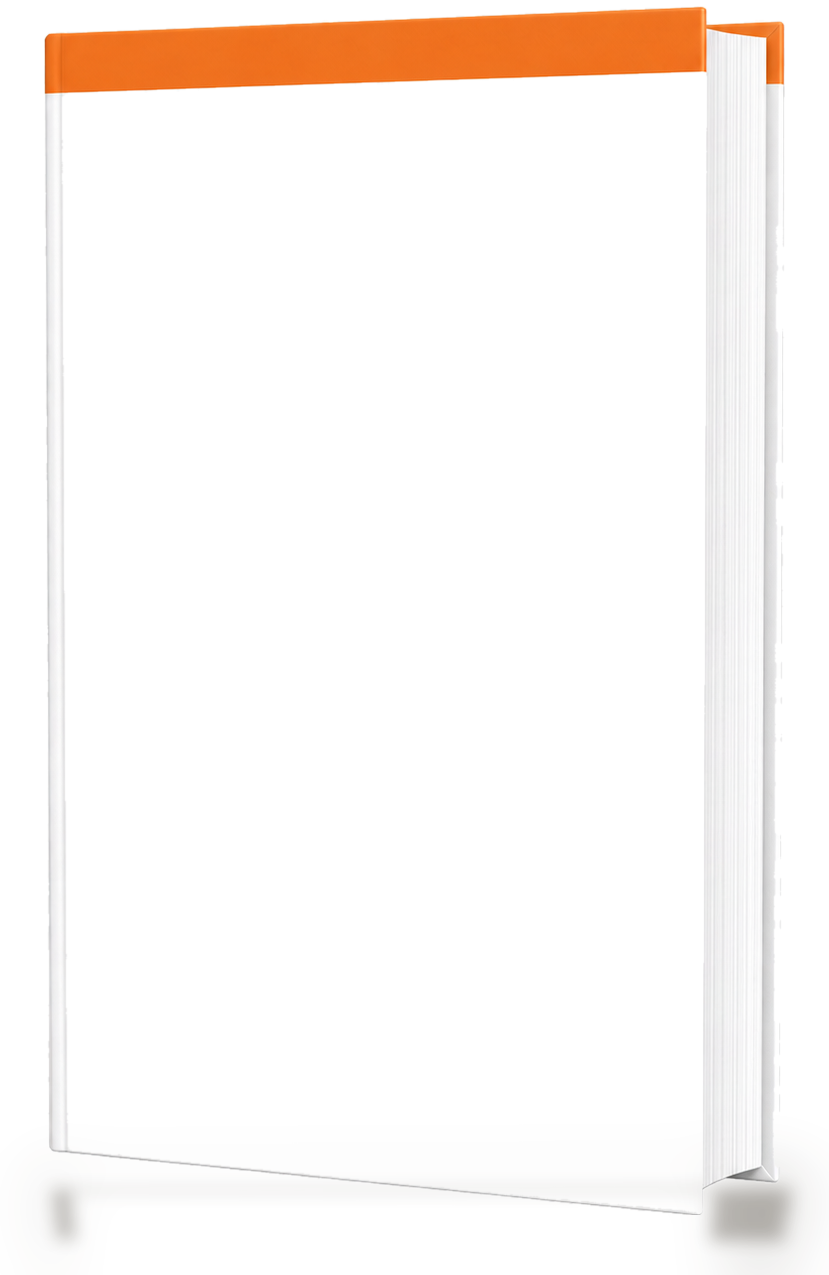
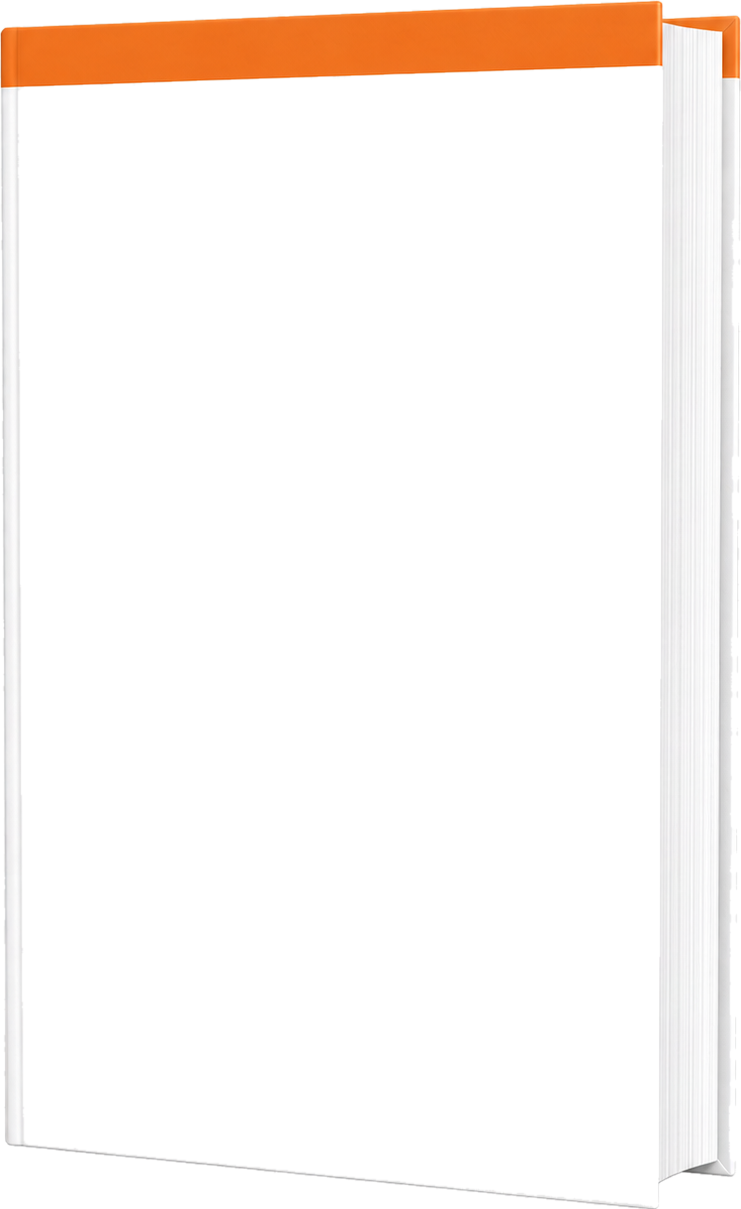
CSS cast drop-shadow (approved), unshadowed true-base assets, Guardians at 2K

diff --git a/index.html b/index.html
@@ -85,7 +85,8 @@
   .tw-st.b3d-st{align-items:flex-end}
   .b3d-st .tw-cover{width:auto}
   .b3d{width:var(--bw);margin:0 auto}
-  .b3d img{width:100%;height:auto;display:block}
+  .b3d img{width:100%;height:auto;display:block;filter:drop-shadow(16px 22px 28px rgba(46,38,26,.34))}
+  .b3d.nofx img{filter:none}
   .tw-spec{font-size:.78rem;color:var(--muted);letter-spacing:.02em;margin:-6px 0 10px}
   .tw-cover .noimg{aspect-ratio:3/4;background:#fff;border:1.5px dashed #d8d2bd;display:flex;align-items:center;justify-content:center;color:var(--muted);font-weight:600;font-size:.9rem;padding:24px;text-align:center;border-radius:8px}
   .tw-info{flex:1;max-width:440px;background:#fff;border:1px solid var(--line);border-radius:var(--radius);padding:26px 30px}
@@ -524,21 +525,21 @@ function toast(msg) {
 
 /* ---------- The Tree ---------- */
 const TREE_BOOKS = [
-  { key: "guardians", zone: "The Canopy", part: "The Shade", title: "Guardians of the Houses of Allah", author: "MAS Publishing", line: "The canopy the community gathers under \u2014 for everyone who loves, serves and sustains the houses of Allah.", dims: [6, 0.5, 9], est: true, imgw: 6.47, render: "https://cdn.shopify.com/s/files/1/0760/5724/8026/files/mas-guardians3d-2.png?v=1786684740", cover: "https://cdn.shopify.com/s/files/1/0073/6231/4343/products/frontcover.png" },
-  { key: "tajdid", part: "The Leaves", title: "Tajdid Anthology, Vol. I", author: "Team of Authors", line: "Leaves fall and return \u2014 renewal, season after season. Essays on Islamic work and revival from many pens.", dims: [6, 0.64, 9], pages: 256, imgw: 6.51, render: "tajdid.png?v=s2", cover: "https://cdn.shopify.com/s/files/1/0760/5724/8026/files/Tajdid-Anthology_cc5fa651-48d8-4d20-8930-95fec0549f51.jpg" },
-  { key: "the muslim speaker", part: "The Fruit", title: "The Muslim Speaker Toolkit", author: "Asad Zaman", line: "What the tree hands to others: Qur'an and Sunnah references on fifty topics, gathered for khateebs and teachers.", dims: [6, 0.5, 9], pages: 198, imgw: 5.91, render: "mst.png?v=s2", cover: "https://cdn.shopify.com/s/files/1/0760/5724/8026/files/The-Muslim-Speaker-Toolkit-Compiled-References-from-Quran-Sunnah_b2e22daf-b1a5-48d3-88f5-b5e77e04a563.jpg" },
-  { key: "our youth", part: "The Seeds", title: "Our Youth, Our Future", author: "Ahmad H. Sakr", line: "Seeds for the next tree \u2014 a ten-step guide to raising the generation that carries the baton.", dims: [5.74, 0.41, 8.74], pages: 90, imgw: 5.78, render: "ouryouth.png?v=s2", cover: "https://m.media-amazon.com/images/I/615j8eEbQ+L._SY522_.jpg" },
-  { key: "transformed", zone: "The Branches", part: "The Branches", title: "Transformed by Worship", author: "Salah Soltan", line: "The four great limbs \u2014 how worship was designed to shape soul, character, mind and body.", dims: [5.5, 0.5, 8.5], pages: 197, imgw: 6.11, render: "tbw.png?v=s2", cover: "https://cdn.shopify.com/s/files/1/0073/6231/4343/products/E94AB6B1-286F-461C-9B5F-D26C077F645A.jpg" },
-  { key: "cultivating", part: "The Branches", title: "Cultivating Character", author: "Younoos Latheef", line: "The shape the branching takes: twelve character traits through an Islamic lens, for youth and their mentors.", dims: [6, 0.59, 9], pages: 261, imgw: 6.17, render: "cultivating.png?v=s2", cover: "https://cdn.shopify.com/s/files/1/0760/5724/8026/files/cultivating-character-front-cover_05b8174a-7f7c-417c-b816-288758db43aa.png" },
-  { key: "roadblocks:", zone: "The Bark", part: "The Bark", title: "Roadblocks", author: "As-Sayyid Muhammad Nuh", line: "The tree's protection \u2014 the spiritual diseases that rot Islamic work from within, named and treated.", dims: [6, 0.48, 9], pages: 192, imgw: 6.14, render: "rb1.png?v=s2", cover: "https://cdn.shopify.com/s/files/1/0073/6231/4343/files/RoadLocks.jpg" },
-  { key: "roadblocks volume 2", part: "The Bark", title: "Roadblocks, Volume II", author: "As-Sayyid Muhammad Nuh", line: "The second layer of defense: six more roadblocks, with commentary for the age of feeds and followers.", dims: [6, 0.43, 9], pages: 169, imgw: 6.14, render: "rb2.png?v=s2", cover: "https://cdn.shopify.com/s/files/1/0760/5724/8026/files/Road-Blocks-Volume-2_15d53c98-8680-4a4b-9071-00e2acd79e7c.jpg" },
-  { key: "rising soul", zone: "The Trunk", part: "The Trunk", title: "Rising Soul", author: "Muhammad Mansur", line: "The self, rising ring by ring \u2014 a practical, step-by-step guide to tarbiyat an-nafs.", dims: [5.5, 0.6, 8.5], pages: 240, imgw: 5.73, render: "risingsoul.png?v=s2", cover: "https://cdn.shopify.com/s/files/1/0073/6231/4343/products/rising_soul_front_cover.png" },
-  { key: "tarbiya handbook", part: "The Trunk", title: "Tarbiya Handbook", author: "MAS Publishing", line: "The pattern of growth \u2014 the companion handbook to the tarbiya process itself.", dims: [5.5, 0.5, 8.5], est: true, imgw: 5.89, render: "https://cdn.shopify.com/s/files/1/0760/5724/8026/files/mas-tarbiya3d-2.png?v=1786684740", cover: "https://cdn.shopify.com/s/files/1/0073/6231/4343/products/Screen_Shot_2020-01-25_at_1.17.26_PM.png" },
-  { key: "mas revival", part: "The Trunk", title: "MAS Revival", author: "MAS Publishing", line: "The grain of the wood: the idea, method and spirit running through the whole of the work.", dims: [5.5, 0.46, 8.5], pages: 182, imgw: 5.83, render: "revival.png?v=s2", cover: "https://cdn.shopify.com/s/files/1/0760/5724/8026/files/Revival-1_bcc96c73-9f2d-4227-b87b-7a7a3403fe67.png" },
-  { key: "sincerity", zone: "The Heartwood", part: "The Heartwood", title: "Sincerity", author: "Yusuf al-Qaradawi", line: "The hidden center that decides whether the whole tree is sound \u2014 keeping the heart's intention pure.", dims: [5.5, 0.16, 8.5], pages: 61, imgw: 5.6, render: "sincerity.png?v=s2", cover: "https://cdn.shopify.com/s/files/1/0073/6231/4343/products/sincerity_front_cover.png" },
-  { key: "faith first", zone: "The Roots", part: "The Roots", title: "Faith First", author: "Magdy al-Hilali", line: "The taproot. Begin with iman, and everything else follows.", dims: [7.5, 0.92, 9.25], pages: 408, imgw: 7.14, render: "ff-ali.png?v=s2", cover: "https://cdn.shopify.com/s/files/1/0760/5724/8026/products/51bvjyDFT5S.jpg?width=810" },
-  { key: "how to love", part: "The Roots", title: "How to Love the Prophet \ufdfa", author: "Ali Badahdah", line: "The root wrapped around the Sunnah \u2014 kindling love for the one we follow \ufdfa.", dims: [6, 0.2, 9], pages: 79, imgw: 5.5, render: "htlp.png?v=s2", cover: "https://cdn.shopify.com/s/files/1/0073/6231/4343/products/14A7B9D4-28BE-46E9-8EC6-4A7CC305D94A.png" },
-  { key: "al-ma", part: "The Roots", title: "Al-Ma'thurat", author: "Hasan al-Banna", line: "What the roots drink daily \u2014 morning and evening remembrance drawn from Qur'an and Sunnah.", dims: [4.5, 0.3, 7], pages: 40, est: true, imgw: 3.93, render: "mathurat2.png?v=s2", cover: "https://cdn.shopify.com/s/files/1/0073/6231/4343/files/D14CCE8C-A13A-4EFE-83ED-FE6D498CF27F.jpg" }
+  { key: "guardians", zone: "The Canopy", part: "The Shade", title: "Guardians of the Houses of Allah", author: "MAS Publishing", line: "The canopy the community gathers under \u2014 for everyone who loves, serves and sustains the houses of Allah.", dims: [6, 0.5, 9], est: true, imgw: 5.78, render: "https://cdn.shopify.com/s/files/1/0760/5724/8026/files/mas-guardians-2k.png?v=1786685790", cover: "https://cdn.shopify.com/s/files/1/0073/6231/4343/products/frontcover.png" },
+  { key: "tajdid", part: "The Leaves", title: "Tajdid Anthology, Vol. I", author: "Team of Authors", line: "Leaves fall and return \u2014 renewal, season after season. Essays on Islamic work and revival from many pens.", dims: [6, 0.64, 9], pages: 256, imgw: 5.82, render: "tajdid.png?v=s3", cover: "https://cdn.shopify.com/s/files/1/0760/5724/8026/files/Tajdid-Anthology_cc5fa651-48d8-4d20-8930-95fec0549f51.jpg" },
+  { key: "the muslim speaker", part: "The Fruit", title: "The Muslim Speaker Toolkit", author: "Asad Zaman", line: "What the tree hands to others: Qur'an and Sunnah references on fifty topics, gathered for khateebs and teachers.", dims: [6, 0.5, 9], pages: 198, imgw: 5.29, render: "mst.png?v=s3", cover: "https://cdn.shopify.com/s/files/1/0760/5724/8026/files/The-Muslim-Speaker-Toolkit-Compiled-References-from-Quran-Sunnah_b2e22daf-b1a5-48d3-88f5-b5e77e04a563.jpg" },
+  { key: "our youth", part: "The Seeds", title: "Our Youth, Our Future", author: "Ahmad H. Sakr", line: "Seeds for the next tree \u2014 a ten-step guide to raising the generation that carries the baton.", dims: [5.74, 0.41, 8.74], pages: 90, imgw: 5.16, render: "ouryouth.png?v=s3", cover: "https://m.media-amazon.com/images/I/615j8eEbQ+L._SY522_.jpg" },
+  { key: "transformed", zone: "The Branches", part: "The Branches", title: "Transformed by Worship", author: "Salah Soltan", line: "The four great limbs \u2014 how worship was designed to shape soul, character, mind and body.", dims: [5.5, 0.5, 8.5], pages: 197, imgw: 5.45, render: "tbw.png?v=s3", cover: "https://cdn.shopify.com/s/files/1/0073/6231/4343/products/E94AB6B1-286F-461C-9B5F-D26C077F645A.jpg" },
+  { key: "cultivating", part: "The Branches", title: "Cultivating Character", author: "Younoos Latheef", line: "The shape the branching takes: twelve character traits through an Islamic lens, for youth and their mentors.", dims: [6, 0.59, 9], pages: 261, imgw: 5.52, render: "cultivating.png?v=s3", cover: "https://cdn.shopify.com/s/files/1/0760/5724/8026/files/cultivating-character-front-cover_05b8174a-7f7c-417c-b816-288758db43aa.png" },
+  { key: "roadblocks:", zone: "The Bark", part: "The Bark", title: "Roadblocks", author: "As-Sayyid Muhammad Nuh", line: "The tree's protection \u2014 the spiritual diseases that rot Islamic work from within, named and treated.", dims: [6, 0.48, 9], pages: 192, imgw: 5.49, render: "rb1.png?v=s3", cover: "https://cdn.shopify.com/s/files/1/0073/6231/4343/files/RoadLocks.jpg" },
+  { key: "roadblocks volume 2", part: "The Bark", title: "Roadblocks, Volume II", author: "As-Sayyid Muhammad Nuh", line: "The second layer of defense: six more roadblocks, with commentary for the age of feeds and followers.", dims: [6, 0.43, 9], pages: 169, imgw: 5.49, render: "rb2.png?v=s3", cover: "https://cdn.shopify.com/s/files/1/0760/5724/8026/files/Road-Blocks-Volume-2_15d53c98-8680-4a4b-9071-00e2acd79e7c.jpg" },
+  { key: "rising soul", zone: "The Trunk", part: "The Trunk", title: "Rising Soul", author: "Muhammad Mansur", line: "The self, rising ring by ring \u2014 a practical, step-by-step guide to tarbiyat an-nafs.", dims: [5.5, 0.6, 8.5], pages: 240, imgw: 5.12, render: "risingsoul.png?v=s3", cover: "https://cdn.shopify.com/s/files/1/0073/6231/4343/products/rising_soul_front_cover.png" },
+  { key: "tarbiya handbook", part: "The Trunk", title: "Tarbiya Handbook", author: "MAS Publishing", line: "The pattern of growth \u2014 the companion handbook to the tarbiya process itself.", dims: [5.5, 0.5, 8.5], est: true, imgw: 5.26, render: "https://cdn.shopify.com/s/files/1/0760/5724/8026/files/mas-tarbiya3d.png?v=1786681497", cover: "https://cdn.shopify.com/s/files/1/0073/6231/4343/products/Screen_Shot_2020-01-25_at_1.17.26_PM.png" },
+  { key: "mas revival", part: "The Trunk", title: "MAS Revival", author: "MAS Publishing", line: "The grain of the wood: the idea, method and spirit running through the whole of the work.", dims: [5.5, 0.46, 8.5], pages: 182, imgw: 5.2, render: "revival.png?v=s3", cover: "https://cdn.shopify.com/s/files/1/0760/5724/8026/files/Revival-1_bcc96c73-9f2d-4227-b87b-7a7a3403fe67.png" },
+  { key: "sincerity", zone: "The Heartwood", part: "The Heartwood", title: "Sincerity", author: "Yusuf al-Qaradawi", line: "The hidden center that decides whether the whole tree is sound \u2014 keeping the heart's intention pure.", dims: [5.5, 0.16, 8.5], pages: 61, imgw: 5.01, render: "sincerity.png?v=s3", cover: "https://cdn.shopify.com/s/files/1/0073/6231/4343/products/sincerity_front_cover.png" },
+  { key: "faith first", zone: "The Roots", part: "The Roots", title: "Faith First", author: "Magdy al-Hilali", line: "The taproot. Begin with iman, and everything else follows.", dims: [7.5, 0.92, 9.25], pages: 408, imgw: 6.38, render: "ff-ali.png?v=s3", cover: "https://cdn.shopify.com/s/files/1/0760/5724/8026/products/51bvjyDFT5S.jpg?width=810" },
+  { key: "how to love", part: "The Roots", title: "How to Love the Prophet \ufdfa", author: "Ali Badahdah", line: "The root wrapped around the Sunnah \u2014 kindling love for the one we follow \ufdfa.", dims: [6, 0.2, 9], pages: 79, imgw: 4.91, render: "htlp.png?v=s3", cover: "https://cdn.shopify.com/s/files/1/0073/6231/4343/products/14A7B9D4-28BE-46E9-8EC6-4A7CC305D94A.png" },
+  { key: "al-ma", part: "The Roots", title: "Al-Ma'thurat", author: "Hasan al-Banna", line: "What the roots drink daily \u2014 morning and evening remembrance drawn from Qur'an and Sunnah.", dims: [4.5, 0.3, 7], pages: 40, est: true, imgw: 3.51, render: "mathurat2.png?v=s3", cover: "https://cdn.shopify.com/s/files/1/0073/6231/4343/files/D14CCE8C-A13A-4EFE-83ED-FE6D498CF27F.jpg" }
 ];
 
 function buildTree(products) {
@@ -560,7 +561,7 @@ function buildTree(products) {
     const alt = b.title.replace(/"/g, "&quot;");
     let coverHtml;
     if (b.render) {
-      coverHtml = '<div class="b3d" style="--bw:calc(var(--ppi)*' + b.imgw + ')">' +
+      coverHtml = '<div class="b3d' + (b.nofx ? ' nofx' : '') + '" style="--bw:calc(var(--ppi)*' + b.imgw + ')">' +
         '<img loading="lazy" src="' + b.render + '" alt="' + alt + '">' +
       '</div>';
     } else {
